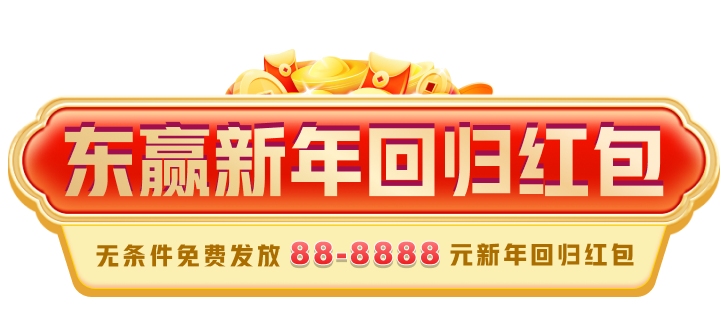
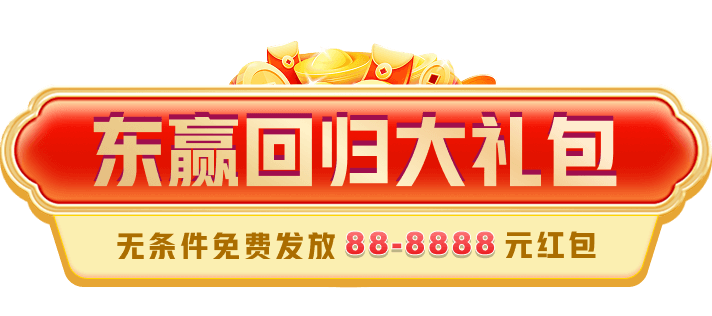
update: [xf, dy, lh landing v11] update img and ui

diff --git a/xf-landing-v11/index.html b/xf-landing-v11/index.html
@@ -17,7 +17,9 @@
         <div class="top-wrapper">
           <div class="top-logo">
             <img src="imgs/logo.png" alt="兴发" title="兴发" />
-            <h2 class="title-text">xfxf98.com</h2>
+            <div class="title-text-bg">
+              <h2 class="title-text">xfxf98.com</h2>
+            </div>
           </div>
           <div class="top-bg">
             <a id="click-to-claim-btn" href="#" target="_blank">
@@ -39,10 +41,10 @@
               alt=""
               style="position: absolute; top: 0; left: 0; width: 100%; height: 100%"
             />
-            <img src="imgs/banner-img.png" alt="" style="width: 80%; margin: 0 auto; position: relative; z-index: 1" />
-            <div class="banner-btn-wrapper">
+            <!-- <img src="imgs/banner-img.png" alt="" style="width: 80%; margin: 0 auto; position: relative; z-index: 1" /> -->
+            <!-- <div class="banner-btn-wrapper"> -->
               <img class="banner-btn" src="imgs/banner-btn.gif" alt="" />
-            </div>
+            <!-- </div> -->
           </a>
         </div>
 

diff --git a/dy-landing-v11/index.html b/dy-landing-v11/index.html
@@ -39,10 +39,10 @@
               alt=""
               style="position: absolute; top: 0; left: 0; width: 100%; height: 100%"
             />
-            <img src="imgs/banner-img.png" alt="" style="width: 80%; margin: 0 auto; position: relative; z-index: 1" />
-            <div class="banner-btn-wrapper">
+            <!-- <img src="imgs/banner-img.png" alt="" style="width: 80%; margin: 0 auto; position: relative; z-index: 1" /> -->
+            <!-- <div class="banner-btn-wrapper"> -->
               <img class="banner-btn" src="imgs/banner-btn.gif" alt="" />
-            </div>
+            <!-- </div> -->
           </a>
         </div>
 

diff --git a/lh-landing-v11/index.html b/lh-landing-v11/index.html
@@ -39,10 +39,10 @@
               alt=""
               style="position: absolute; top: 0; left: 0; width: 100%; height: 100%"
             />
-            <img src="imgs/banner-img.png" alt="" style="width: 80%; margin: 0 auto; position: relative; z-index: 1" />
-            <div class="banner-btn-wrapper">
+            <!-- <img src="imgs/banner-img.png" alt="" style="width: 80%; margin: 0 auto; position: relative; z-index: 1" /> -->
+            <!-- <div class="banner-btn-wrapper"> -->
               <img class="banner-btn" src="imgs/banner-btn.gif" alt="" />
-            </div>
+            <!-- </div> -->
           </a>
         </div>
 

diff --git a/xf-landing-v11/css/styles-v2.css b/xf-landing-v11/css/styles-v2.css
@@ -73,6 +73,10 @@ a {
   max-width: 340px;
 }
 
+.title-text-bg {
+  margin-top: 2px;
+}
+
 .title-text{
   margin: 0px;
   background: linear-gradient(180deg, #FF7D7F 21.28%, #E90E12 84.04%);
@@ -111,17 +115,20 @@ a {
   position: relative;
 }
 
-.banner-btn-wrapper {
+/* .banner-btn-wrapper {
   position: absolute;
   display: block;
   left: 22%;
   right: 16%;
   bottom: -1%;
   z-index: 1;
-}
+} */
 
 .banner-btn {
-  width: 100%;
+  position: relative;
+  z-index: 1;
+  width: 60%;
+  margin-top: 12px;
 }
 
 .swing {

diff --git a/dy-landing-v11/css/styles-v2.css b/dy-landing-v11/css/styles-v2.css
@@ -111,17 +111,20 @@ a {
   position: relative;
 }
 
-.banner-btn-wrapper {
+/* .banner-btn-wrapper {
   position: absolute;
   display: block;
   left: 22%;
   right: 16%;
   bottom: -1%;
   z-index: 1;
-}
+} */
 
 .banner-btn {
-  width: 100%;
+  position: relative;
+  z-index: 1;
+  width: 60%;
+  margin-top: 12px;
 }
 
 .swing {

diff --git a/lh-landing-v11/css/styles-v2.css b/lh-landing-v11/css/styles-v2.css
@@ -112,17 +112,20 @@ a {
   position: relative;
 }
 
-.banner-btn-wrapper {
+/* .banner-btn-wrapper {
   position: absolute;
   display: block;
   left: 22%;
   right: 16%;
   bottom: -1%;
   z-index: 1;
-}
+} */
 
 .banner-btn {
-  width: 100%;
+  position: relative;
+  z-index: 1;
+  width: 60%;
+  margin-top: 12px;
 }
 
 .swing {
